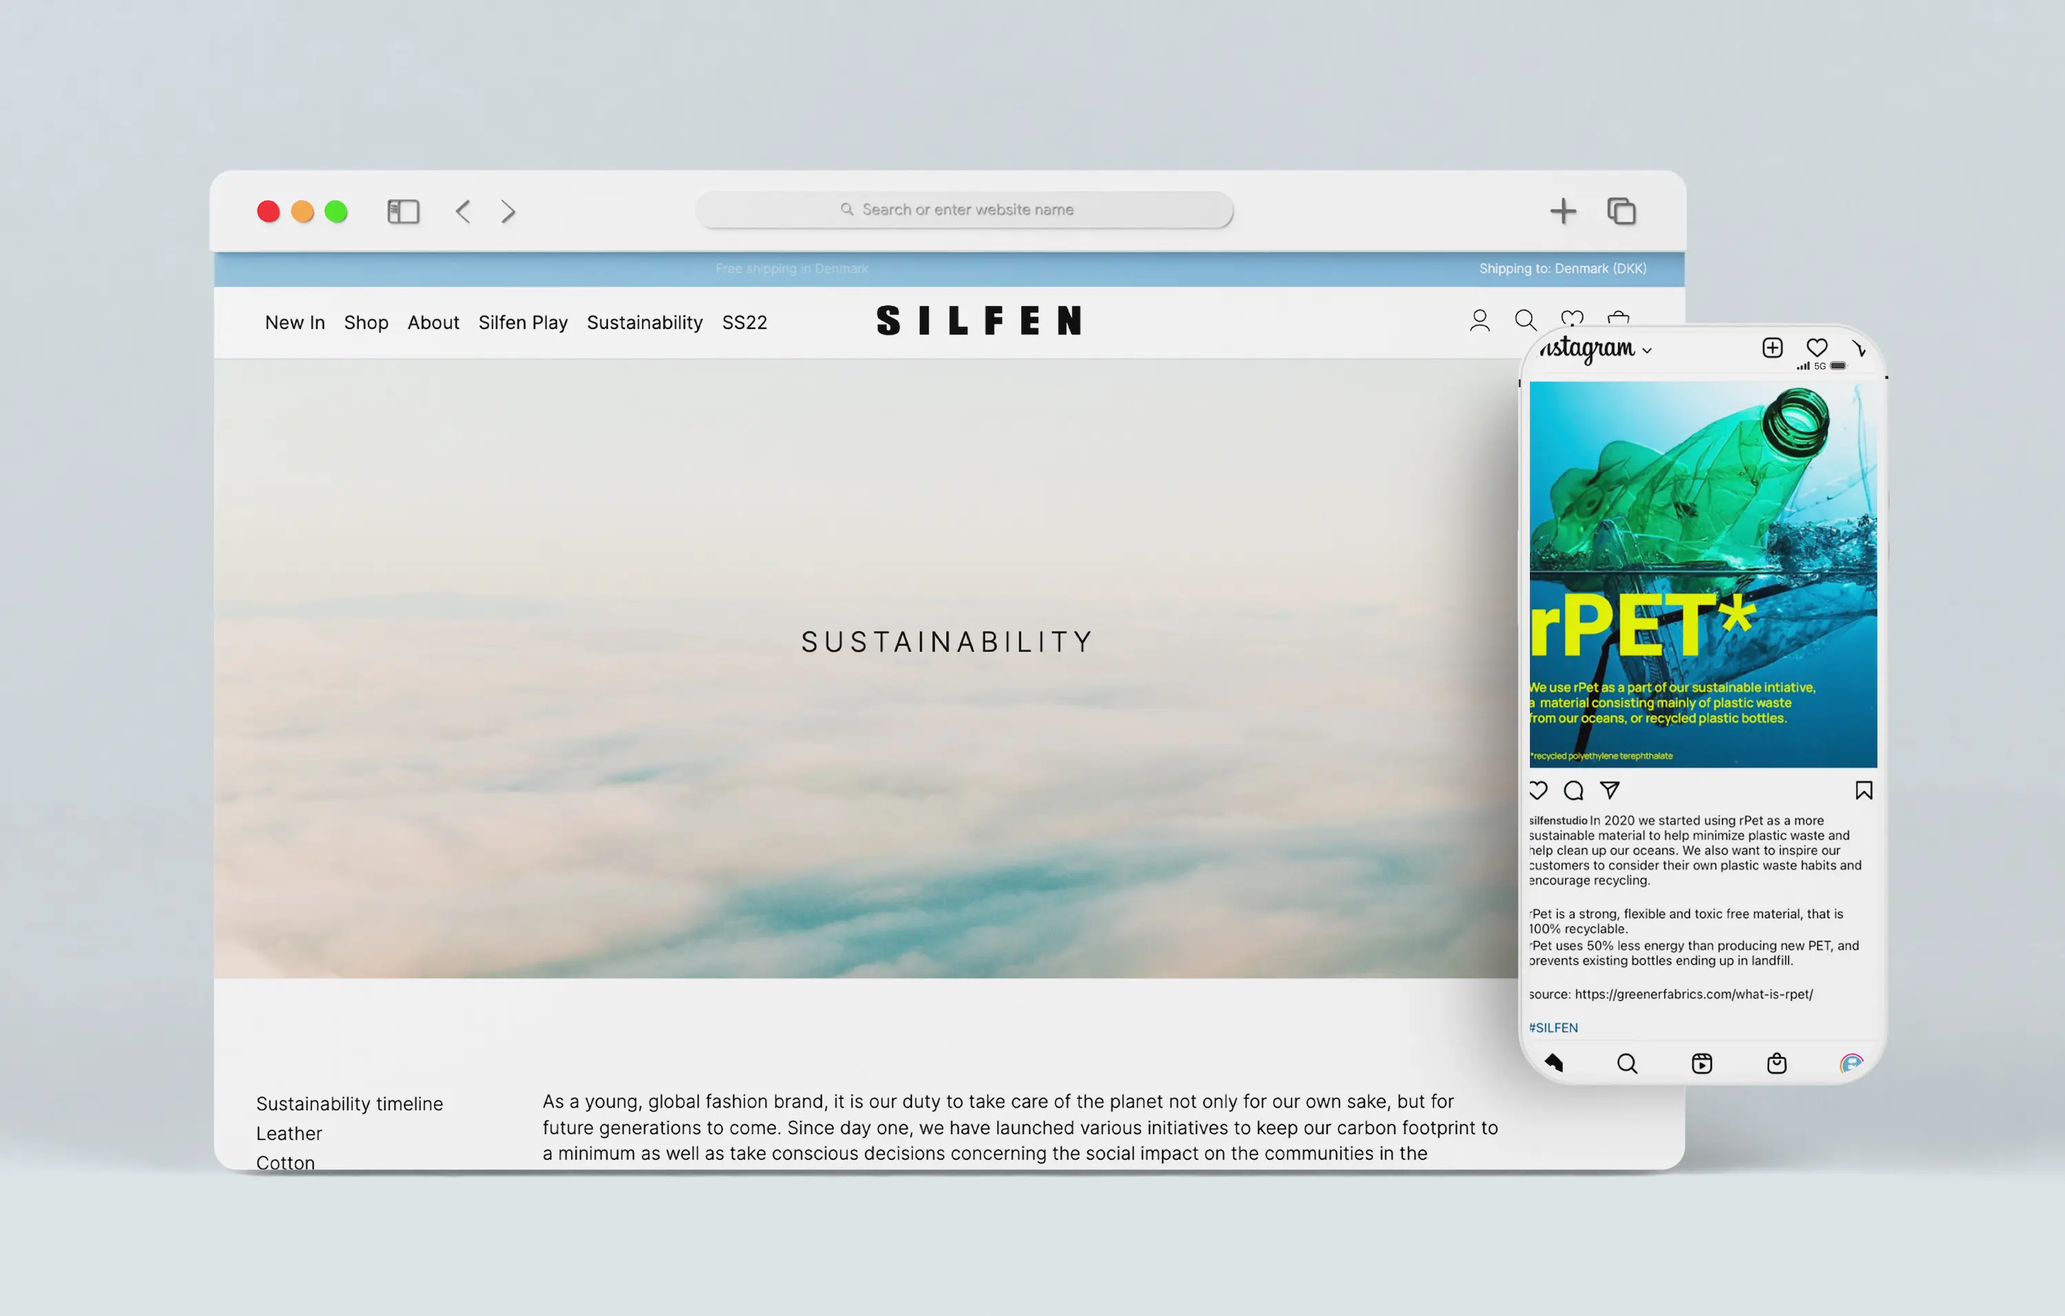
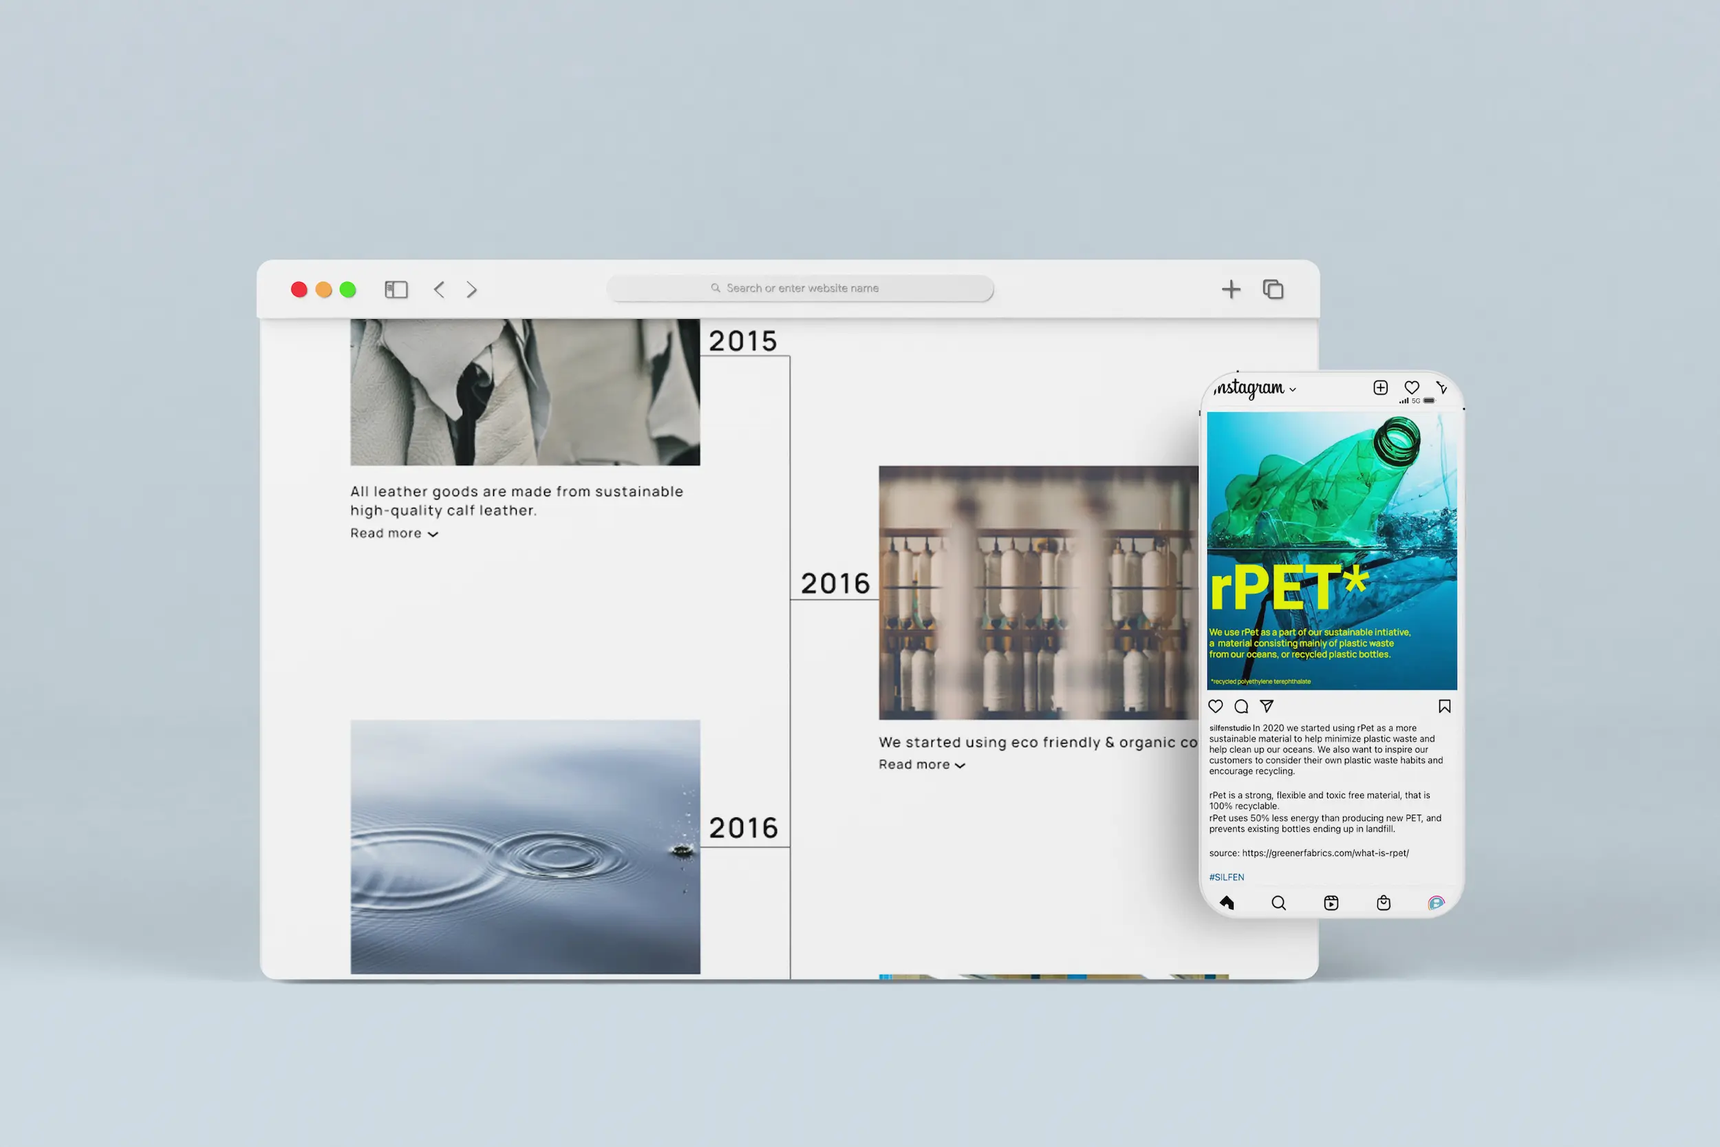
project-pages

diff --git a/src/kraess.html b/src/kraess.html
@@ -9,37 +9,35 @@
     <link rel="stylesheet" href="https://use.typekit.net/jas1nff.css">
   </head>
   <body class="grid">
-    <header class="navBar fixed z-40 mobileNoShow">
-        <nav aria-label="site nav" class="px-6 pt-5 flex justify-between w-screen"><a href="index.html" class="font-bold text-4xl sm:text-5xl">lv</a>   
-          <ul class="navList flex flex-col gap-1 sm:text-lg ">
-          <li id="aboutNav"><a href="#keywords" class="flex flex-row-reverse gap-1">(01)<p class="uppercase">keywords</p></a></li>
-          <li><a href="#summary" class="flex flex-row-reverse gap-1" id="projNav">(02)<p class="uppercase">summary</p> </a></li>
-          <li><a href="#links" class="flex flex-row-reverse gap-1" id="styleNav">(03)<p class="uppercase">links</p></a></li>
-        </ul></nav>
+
+    <header class="navBar fixed z-40">
+        <nav aria-label=" nav" class="px-6 pt-5  w-screen"><a href="index.html" class="font-bold text-4xl sm:text-5xl">lv</a>   
+       </nav>
     </header>
 <main class="bg-offWhite">
-        <div class="h-[85vh] bg-[url('/images/kraess-mockup.webp')] bg-cover bg-center">
+        <div class="h-[65vh] sm:h-[85vh] bg-[url('/images/kraess-mockup.webp')] bg-cover bg-center">
         </div>
-        <section class="border-b mx-16 px-6 md:mx-16 py-12 flex flex-col md:flex-row justify-between text-lg" id="keywords">
-            <p class="uppercase text-xl flex gap-1"><span class="text-sm self-center">(01)</span> keywords :</p>
-        <div class="md:w-[50vw] flex justify-between">
+        <section class="border-b  mx-6  sm:px-6 md:mx-16 py-12 flex  justify-between text-lg" id="keywords">
+            <p class="uppercase text-xl w-[50vw] sm:w-auto"> keywords :</p>
+        <div class="md:w-[50vw] flex justify-between flex-col sm:flex-row sm:flex-wrap sm:gap-3">
             <p>UI/UX Design</p>
             <p>Content Creation & Strategy</p>
             <p>Visual Identity</p>
             <p>Web Development</p>
     </div>
 </section>
-        <section class="flex flex-col gap-10 self-end sm:flex-row pl-6 md:mx-16 py-6  justify-between" id="summary">
-            <p class="uppercase text-xl flex gap-1"><span class="text-sm pt-1">(02)</span>Summary :</p>
+        <section class="flex flex-col gap-10 self-end sm:flex-row px-6 md:mx-16 py-6  justify-between" id="summary">
+            <p class="uppercase text-xl">Summary :</p>
             <div class="flex flex-col text-3xl md:w-[50vw]">
                 <h1 class="uppercase border-b pb-6">Kræss</h1>
-                <p class="border-b py-6 text-2xl">Kræss is an independent art & design boutique that sells handmade designs created by local artists. They emphasis that their core value is to help establish new designers by not only selling their items, but to tell their stories too.
+                <p class="border-b py-6 text-xl leading-8">Kræss is an independent art & design boutique that sells handmade designs created by local artists. They emphasis that their core value is to help establish new designers by not only selling their items, but to tell their stories too.
                    <br> For my final exam project in my second semester I worked in a team to do a full redesign of their current visual profile to better align with their core values, create a more user-friendly website and to help strengthen their digital presence through creating a digital and SoMe marketing strategy.
+                   <br>Some of my responsibilities included creating a new logo, putting together a style guide, copywriting, content ideation and post-production.
                 </p>
             </div>
         </section>
-      <section class="flex flex-col gap-10 self-end sm:flex-row pl-6 md:mx-16 pb-12  justify-between" id="links">
-        <p class="uppercase text-xl flex gap-1"><span class="text-sm pt-1">(03)</span>links :</p>
+      <section class="flex  sm:gap-10 self-end sm:flex-row px-6 md:mx-16 pb-12  justify-between" id="links">
+        <p class="uppercase text-xl">links :</p>
             <div class="flex gap-5 md:gap-8 pb-6 md:w-[50vw]">
                 <a href="https://linneavisser.github.io/kraess-copy/"><svg width="20" height="20" viewBox="0 0 32 32" class="md:h-8 w-auto"><path  fill="currentColor" d="M29.25 6.76a6 6 0 0 0-8.5 0l1.42 1.42a4 4 0 1 1 5.67 5.67l-8 8a4 4 0 1 1-5.67-5.66l1.41-1.42l-1.41-1.42l-1.42 1.42a6 6 0 0 0 0 8.5A6 6 0 0 0 17 25a6 6 0 0 0 4.27-1.76l8-8a6 6 0 0 0-.02-8.48Z"/><path fill="currentColor" d="M4.19 24.82a4 4 0 0 1 0-5.67l8-8a4 4 0 0 1 5.67 0A3.94 3.94 0 0 1 19 14a4 4 0 0 1-1.17 2.85L15.71 19l1.42 1.42l2.12-2.12a6 6 0 0 0-8.51-8.51l-8 8a6 6 0 0 0 0 8.51A6 6 0 0 0 7 28a6.07 6.07 0 0 0 4.28-1.76l-1.42-1.42a4 4 0 0 1-5.67 0Z"/></svg></a>
                 <a href="https://www.youtube.com/shorts/Z6R1p7szAvU"><svg width="20" height="20" viewBox="0 0 32 32" class="md:h-8 w-auto"><path  fill="currentColor" d="M21 26H4a2 2 0 0 1-2-2V8a2 2 0 0 1 2-2h17a2 2 0 0 1 2 2v4.06l5.42-3.87A1 1 0 0 1 30 9v14a1 1 0 0 1-1.58.81L23 19.94V24a2 2 0 0 1-2 2ZM4 8v16h17v-6a1 1 0 0 1 1.58-.81L28 21.06V10.94l-5.42 3.87A1 1 0 0 1 21 14V8Z"/></svg></a>

diff --git a/src/index.html b/src/index.html
@@ -124,21 +124,29 @@
     <img src="svg/arrow-left.svg" alt="" class="h-7">
   </a>
     <img src="images/kraess-mockup.webp" alt="" class="col-start-1 col-span-7 ml-24 row-start-1 row-span-6">
-    <p class="col-start-1 col-span-7 ml-24 row-start-5 row-span-5">Kræss is an independent interior design store based in Copenhagen. For my 2nd semester exam I worked in a team to redesigned their visual identity, create a digital solution, create content as well as a SoMe strategy.
-     <br>I was responsible for redesigning their visual identity, web development, content creation and do the post-production.</p>
-    <div class="projectList col-start-8 col-span-4 border-b py-6 flex justify-between hover:font-medium items-center">
+    <!-- <p class="col-start-1 col-span-7 ml-24 row-start-5 row-span-5">Kræss is an independent interior design store based in Copenhagen. For my 2nd semester exam I worked in a team to redesigned their visual identity, create a digital solution, create content as well as a SoMe strategy.
+     <br>I was responsible for redesigning their visual identity, web development, content creation and do the post-production.</p> -->
+     <div class="col-start-1 col-span-7 ml-24 row-start-5 row-span-5 flex uppercase gap-3 justify-between"><p>UI/ux design</p>
+    <p>Visual Identity</p>
+  <p>Content creation & strategy</p>
+  <p>Web Development</p></div>
+    <a href="vildskud.html" class="projectList col-start-8 col-span-4 border-b py-6 flex justify-between hover:font-medium items-center">
       <h3 class="uppercase  text-3xl"> Vildskud</h3>
       <img src="svg/arrow-left.svg" alt="" class="h-7">
-    </div>
+    </a>
       <img src="images/vildskud-mockup.webp" alt="" class="col-start-1 col-span-7 ml-24 row-start-1 row-span-6">
-      <p class="col-start-1 col-span-7 ml-24 row-start-6 row-span-5">Vildskud Festival is an annual independent theater festival in Copenhagen. They tasked us to create a mobile first, sustainable website - each page had a maximum size of 0.125 mb. We had two weeks to design and develop our solution. <br> In a team we collaborated on desiging the UI and the web development. I also designed event posters and illustrations that we used throughout the website.</p>
-      <div class="projectList col-start-8 col-span-4 border-b py-6 flex justify-between hover:font-medium items-center">
+      <div class="col-start-1 col-span-7 pt-6 ml-24 row-start-5 row-span-5 flex uppercase gap-3 justify-between"><p>UI/ux design</p>
+        <p>Sustainable web design</p>
+      <p>Web Development</p></div>
+      <a href="silfen.html" class="projectList col-start-8 col-span-4 border-b py-6 flex justify-between hover:font-medium items-center">
         <h3 class="uppercase  text-3xl">Silfen</h3>
         <img src="svg/arrow-left.svg" alt="" class="h-7">
-      </div>
+      </a>
         <img src="images/silfenmock.webp" alt="" class="col-start-1 col-span-7 ml-24 row-start-1 row-span-6">
-        <p class="col-start-1 col-span-7 ml-24 row-start-6 row-span-5">Silfen is a Danish accessory and clothing brand that seeks to promote individuality and authenticity. To promote their sustainability efforts they wanted a more dynamic and trustworthy sustainablity webpage, SoMe content and a short ad that fit into their brand universe.
-         <br> I was responsible for creating the SoMe guide, content strategy, content ideation and copywriting.</p>
+        <div class="col-start-1 col-span-7 pt-6 ml-24 row-start-5 row-span-5 flex uppercase gap-3 justify-between"><p>content creation & strategy</p>
+          <p>video production</p>
+          <p>UI Design</p>
+        <p>Web Development</p></div>
      <div class="projectList col-start-8 col-span-4 border-b py-6 flex justify-between hover:font-medium items-center">
       <h3 class="uppercase  text-3xl">CustomiseMe</h3>
       <img src="svg/arrow-left.svg" alt="" class="h-7">
@@ -147,6 +155,7 @@
       <p class="col-start-1 col-span-7 ml-24 row-start-7 row-span-5">CustomiseMe sells customisable, vegan handsoaps. As a short group project we were tasked to redesign their website to make it more engaging. <br> My responsibilities were to design the UI, create a database, product photography and web development.</p>
   </div>
 </section>
+
 <!-- STYLING  MOBILE OBSBOSOBSOBSBOSOB-->
 <section class="bg-offBlack min-h-screen px-6 text-offWhite sm:hidden">
   <h2 class=" text-7xl  font-semibold tracking-wide pt-16 reveal uppercase">Selected Projects</h2>

diff --git a/src/vildskud.html b/src/vildskud.html
@@ -1,0 +1,52 @@
+<!DOCTYPE html>
+<html lang="en">
+  <head>
+    <meta charset="UTF-8" />
+    <link rel="icon" type="image/svg+xml" href="/vite.svg" />
+    <meta name="viewport" content="width=device-width, initial-scale=1.0" />
+    <title>Linnea Visser</title>
+    <!-- fonts -->
+    <link rel="stylesheet" href="https://use.typekit.net/jas1nff.css">
+  </head>
+  <body class="grid">
+    <!-- HEADER DESKTOP -->
+    <header class="navBar fixed z-40 ">
+        <nav aria-label="site nav" class="px-6 pt-5 w-screen"><a href="index.html" class="font-bold text-4xl sm:text-5xl">lv</a>   
+   </nav>
+    </header>
+<main class="bg-offWhite">
+        <div class="h-[65vh] sm:h-[85vh] bg-[url('/images/vildskud-mockup.webp')] bg-cover bg-center">
+        </div>
+        <section class="border-b  mx-6  sm:px-6 md:mx-16 py-12 flex  justify-between text-lg" id="keywords">
+            <p class="uppercase text-xl  w-[50vw] sm:w-auto"> keywords :</p>
+        <div class="md:w-[50vw] flex justify-between flex-col sm:flex-row sm:flex-wrap sm:gap-3">
+            <p>UI/UX Design</p>
+            <p>Sustainable Web Design</p>
+            <p>Web Development</p>
+    </div>
+</section>
+        <section class="flex flex-col gap-10 self-end sm:flex-row px-6 md:mx-16 py-6  justify-between" id="summary">
+            <p class="uppercase text-xl">Summary :</p>
+            <div class="flex flex-col text-3xl md:w-[50vw]">
+                <h1 class="uppercase border-b pb-6">vildskud festival</h1>
+                <p class="border-b py-6 text-xl leading-8">Vildskud Festival is an annual independent theater festival in Copenhagen. 
+                    As a two week group project we were tasked to design and develop a user-friendly, mobile-first website.
+                   <br> Vildskud requested for the site to be sustainable, with each page being under 0.125 mb, as well as for us to make it easier for users to get an overview of the ticket information and where to find the different venues. 
+                    <br> Working in a small team we collaborated on designing the UI as well as the web development. Furthermore, I was responsible for creating event posters, illustrations and a new logo.
+                    
+                </p>
+            </div>
+        </section>
+      <section class="flex  sm:gap-10 self-end sm:flex-row px-6 md:mx-16 pb-12  justify-between" id="links">
+        <p class="uppercase text-xl">link :</p>
+            <div class="flex gap-5 md:gap-8 pb-6 md:w-[50vw]">
+                <a href="https://thordiskara.com/vildskud/"><svg width="20" height="20" viewBox="0 0 32 32" class="md:h-8 w-auto"><path  fill="currentColor" d="M29.25 6.76a6 6 0 0 0-8.5 0l1.42 1.42a4 4 0 1 1 5.67 5.67l-8 8a4 4 0 1 1-5.67-5.66l1.41-1.42l-1.41-1.42l-1.42 1.42a6 6 0 0 0 0 8.5A6 6 0 0 0 17 25a6 6 0 0 0 4.27-1.76l8-8a6 6 0 0 0-.02-8.48Z"/><path fill="currentColor" d="M4.19 24.82a4 4 0 0 1 0-5.67l8-8a4 4 0 0 1 5.67 0A3.94 3.94 0 0 1 19 14a4 4 0 0 1-1.17 2.85L15.71 19l1.42 1.42l2.12-2.12a6 6 0 0 0-8.51-8.51l-8 8a6 6 0 0 0 0 8.51A6 6 0 0 0 7 28a6.07 6.07 0 0 0 4.28-1.76l-1.42-1.42a4 4 0 0 1-5.67 0Z"/></svg></a>
+             </div>
+    </section>
+</main>
+<footer></footer>
+<div id="cursor"></div>
+<script src="https://cdnjs.cloudflare.com/ajax/libs/gsap/3.4.2/gsap.min.js"></script>
+<script type="module" src="./main.js"></script>
+  </body>
+</html>

diff --git a/src/customiseme.html b/src/customiseme.html
@@ -1,0 +1,51 @@
+<!DOCTYPE html>
+<html lang="en">
+  <head>
+    <meta charset="UTF-8" />
+    <link rel="icon" type="image/svg+xml" href="/vite.svg" />
+    <meta name="viewport" content="width=device-width, initial-scale=1.0" />
+    <title>Linnea Visser</title>
+    <!-- fonts -->
+    <link rel="stylesheet" href="https://use.typekit.net/jas1nff.css">
+  </head>
+  <body class="grid">
+
+    <header class="navBar fixed z-40">
+        <nav aria-label=" nav" class="px-6 pt-5  w-screen"><a href="index.html" class="font-bold text-4xl sm:text-5xl">lv</a>   
+       </nav>
+    </header>
+<main class="bg-offWhite">
+        <div class="h-[65vh] sm:h-[85vh] bg-[url('/images/silfenmock.webp')] bg-cover bg-center">
+        </div>
+        <section class="border-b  mx-6  sm:px-6 md:mx-16 py-12 flex  justify-between text-lg" id="keywords">
+            <p class="uppercase text-xl w-[50vw] sm:w-auto"> keywords :</p>
+        <div class="md:w-[50vw] flex justify-between flex-col sm:flex-row sm:flex-wrap sm:gap-3">
+            <p>Content Creation & Strategy</p>
+            <p>Video Production</p>
+            <p>UI Design</p>
+            <p>Web Development</p>
+    </div>
+</section>
+        <section class="flex flex-col gap-10 self-end sm:flex-row px-6 md:mx-16 py-6  justify-between" id="summary">
+            <p class="uppercase text-xl">Summary :</p>
+            <div class="flex flex-col text-3xl md:w-[50vw]">
+                <h1 class="uppercase border-b pb-6">Silfen</h1>
+                <p class="border-b py-6 text-xl leading-8">SILFEN is a Danish accessory and clothing brand that seeks to promote individuality and authenticity. 
+                               <br> SILFEN approached us looking for a way to effectively communicate their sustainability initiative on their website as well as on their social media channels, where they had seen a drop in engagement for the past months. 
+                    <br> I was responsible for creating the SoMe guide, content strategy, content ideation and copywriting.
+                </p>
+            </div>
+        </section>
+      <section class="flex  sm:gap-10 self-end sm:flex-row px-6 md:mx-16 pb-12  justify-between" id="links">
+        <p class="uppercase text-xl">links :</p>
+            <div class="flex gap-5 md:gap-8 pb-6 md:w-[50vw]">
+                <a href="https://linneavisser.github.io/website/sustainability.html"><svg width="20" height="20" viewBox="0 0 32 32" class="md:h-8 w-auto"><path  fill="currentColor" d="M29.25 6.76a6 6 0 0 0-8.5 0l1.42 1.42a4 4 0 1 1 5.67 5.67l-8 8a4 4 0 1 1-5.67-5.66l1.41-1.42l-1.41-1.42l-1.42 1.42a6 6 0 0 0 0 8.5A6 6 0 0 0 17 25a6 6 0 0 0 4.27-1.76l8-8a6 6 0 0 0-.02-8.48Z"/><path fill="currentColor" d="M4.19 24.82a4 4 0 0 1 0-5.67l8-8a4 4 0 0 1 5.67 0A3.94 3.94 0 0 1 19 14a4 4 0 0 1-1.17 2.85L15.71 19l1.42 1.42l2.12-2.12a6 6 0 0 0-8.51-8.51l-8 8a6 6 0 0 0 0 8.51A6 6 0 0 0 7 28a6.07 6.07 0 0 0 4.28-1.76l-1.42-1.42a4 4 0 0 1-5.67 0Z"/></svg></a>
+             </div>
+    </section>
+</main>
+<footer></footer>
+<div id="cursor"></div>
+<script src="https://cdnjs.cloudflare.com/ajax/libs/gsap/3.4.2/gsap.min.js"></script>
+<script type="module" src="./main.js"></script>
+  </body>
+</html>

diff --git a/src/silfen.html b/src/silfen.html
@@ -1,0 +1,51 @@
+<!DOCTYPE html>
+<html lang="en">
+  <head>
+    <meta charset="UTF-8" />
+    <link rel="icon" type="image/svg+xml" href="/vite.svg" />
+    <meta name="viewport" content="width=device-width, initial-scale=1.0" />
+    <title>Linnea Visser</title>
+    <!-- fonts -->
+    <link rel="stylesheet" href="https://use.typekit.net/jas1nff.css">
+  </head>
+  <body class="grid">
+
+    <header class="navBar fixed z-40">
+        <nav aria-label=" nav" class="px-6 pt-5  w-screen"><a href="index.html" class="font-bold text-4xl sm:text-5xl">lv</a>   
+       </nav>
+    </header>
+<main class="bg-offWhite">
+        <div class="h-[65vh] sm:h-[85vh] bg-[url('/images/silfenmock.webp')] bg-cover bg-center">
+        </div>
+        <section class="border-b  mx-6  sm:px-6 md:mx-16 py-12 flex  justify-between text-lg" id="keywords">
+            <p class="uppercase text-xl w-[50vw] sm:w-auto"> keywords :</p>
+        <div class="md:w-[50vw] flex justify-between flex-col sm:flex-row sm:flex-wrap sm:gap-3">
+            <p>Content Creation & Strategy</p>
+            <p>Video Production</p>
+            <p>UI Design</p>
+            <p>Web Development</p>
+    </div>
+</section>
+        <section class="flex flex-col gap-10 self-end sm:flex-row px-6 md:mx-16 py-6  justify-between" id="summary">
+            <p class="uppercase text-xl">Summary :</p>
+            <div class="flex flex-col text-3xl md:w-[50vw]">
+                <h1 class="uppercase border-b pb-6">Silfen</h1>
+                <p class="border-b py-6 text-xl leading-8">SILFEN is a Danish accessory and clothing brand that seeks to promote individuality and authenticity. 
+                               <br> SILFEN approached us looking for a way to effectively communicate their sustainability initiative on their website as well as on their social media channels, where they had seen a drop in engagement for the past months. 
+                    <br> I was responsible for creating the SoMe guide, content strategy, content ideation and copywriting.
+                </p>
+            </div>
+        </section>
+      <section class="flex  sm:gap-10 self-end sm:flex-row px-6 md:mx-16 pb-12  justify-between" id="links">
+        <p class="uppercase text-xl">links :</p>
+            <div class="flex gap-5 md:gap-8 pb-6 md:w-[50vw]">
+                <a href="https://linneavisser.github.io/website/sustainability.html"><svg width="20" height="20" viewBox="0 0 32 32" class="md:h-8 w-auto"><path  fill="currentColor" d="M29.25 6.76a6 6 0 0 0-8.5 0l1.42 1.42a4 4 0 1 1 5.67 5.67l-8 8a4 4 0 1 1-5.67-5.66l1.41-1.42l-1.41-1.42l-1.42 1.42a6 6 0 0 0 0 8.5A6 6 0 0 0 17 25a6 6 0 0 0 4.27-1.76l8-8a6 6 0 0 0-.02-8.48Z"/><path fill="currentColor" d="M4.19 24.82a4 4 0 0 1 0-5.67l8-8a4 4 0 0 1 5.67 0A3.94 3.94 0 0 1 19 14a4 4 0 0 1-1.17 2.85L15.71 19l1.42 1.42l2.12-2.12a6 6 0 0 0-8.51-8.51l-8 8a6 6 0 0 0 0 8.51A6 6 0 0 0 7 28a6.07 6.07 0 0 0 4.28-1.76l-1.42-1.42a4 4 0 0 1-5.67 0Z"/></svg></a>
+             </div>
+    </section>
+</main>
+<footer></footer>
+<div id="cursor"></div>
+<script src="https://cdnjs.cloudflare.com/ajax/libs/gsap/3.4.2/gsap.min.js"></script>
+<script type="module" src="./main.js"></script>
+  </body>
+</html>

diff --git a/src/style.css b/src/style.css
@@ -38,6 +38,7 @@ details > summary {
  body{
   cursor: none;
  }
+ 
  #cursor {
   background-color: black;
   border-radius: 25px;
@@ -171,6 +172,17 @@ width: min(50vw, 800px);
 opacity: 1;
 transform: translate(-5%, -5%) scale(1);
 }
+.projectList + img + div {
+  opacity: 0;
+  transform: translate(-5%, -5%) scale(0.5);
+  transition: transform 450ms, opacity 450ms;
+  pointer-events: none;
+  width: min(50vw, 800px);
+  }
+  .projectList:hover + img + div {
+  opacity: 1;
+  transform: translate(-5%, -5%) scale(1);
+  }
 
 
 /* FADE IN ANIMATION */
